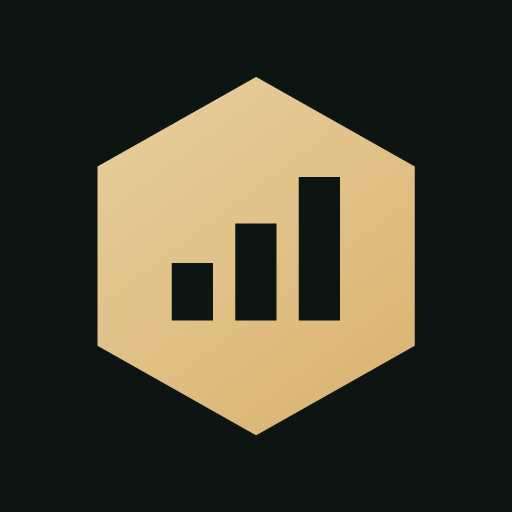
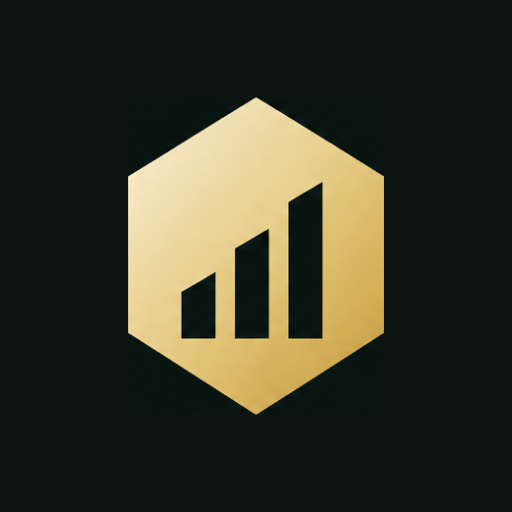
Logótipo real da marca no site e nos ícones da app
O símbolo hexagonal com as barras ascendentes passa a ser a imagem real,
recortada com fundo transparente: as barras são vazadas, por isso assentam
no fundo escuro da página e lêem-se como barras escuras.

O nome fica em texto e não em imagem — mantém-se nítido em qualquer ecrã,
continua a ser lido por leitores de ecrã, e evita o "FINANCEIRA" ilegível
que o logótipo completo dava à altura do cabeçalho.

Os ícones da app (192, 512 e Apple) foram gerados a partir do mesmo
símbolo, centrado a 62% para sobreviver ao recorte redondo do Android.

Corrige também os valores da pré-visualização, que partiam em duas linhas
nas caixas estreitas do telemóvel.

Claude-Session: https://claude.ai/code/session_01TeHc32tkHpdjBymCiSiWmw

Changed region(s): [[0.1875, 0.1562, 0.8125, 0.8438]]

diff --git a/estilo.css b/estilo.css
@@ -61,15 +61,18 @@ header{
   border-bottom:1px solid rgba(217,178,110,.14);
 }
 .nav{display:flex;align-items:center;justify-content:space-between;height:74px;gap:18px}
-.logo{display:flex;align-items:center;gap:12px;text-decoration:none;flex:none}
-.logo-mark{
-  width:40px;height:44px;display:grid;place-items:center;
-  background:linear-gradient(160deg,var(--gold-soft),var(--gold));
-  clip-path:polygon(50% 0,100% 25%,100% 75%,50% 100%,0 75%,0 25%);
-  color:var(--ink);font-family:'Playfair Display',serif;font-weight:800;font-size:1.05rem;
+.logo{display:flex;align-items:center;gap:11px;text-decoration:none;flex:none}
+/* Símbolo: imagem real, de fundo transparente. As barras são vazadas, por
+   isso assentam no fundo escuro da página e lêem-se como barras escuras.
+   O nome fica em texto e não em imagem — assim mantém-se nítido em
+   qualquer ecrã e continua a ser lido por leitores de ecrã. */
+.logo-mark{width:38px;height:auto;display:block;flex:none}
+.logo-name{font-family:'Playfair Display',serif;letter-spacing:.26em;font-weight:700;color:var(--gold-soft);font-size:1rem;line-height:1.1}
+.logo-name small{display:block;font-family:'Manrope',sans-serif;letter-spacing:.34em;font-size:.52rem;color:var(--cream-dim);font-weight:600;margin-top:2px}
+@media(max-width:640px){
+  .logo-mark{width:32px}
+  .logo-name{font-size:.88rem}
 }
-.logo-name{letter-spacing:.28em;font-weight:800;color:var(--gold-soft);font-size:.92rem}
-.logo-name small{display:block;letter-spacing:.44em;font-size:.55rem;color:var(--cream-dim);font-weight:600}
 nav.links{display:flex;gap:20px;flex-wrap:nowrap;align-items:center}
 nav.links a{color:var(--cream-dim);text-decoration:none;font-size:.84rem;font-weight:600;transition:color .2s;white-space:nowrap;position:relative;padding:6px 0}
 nav.links a:hover{color:var(--gold)}
@@ -165,7 +168,7 @@ footer{border-top:1px solid rgba(217,178,110,.14);padding:44px 0 28px}
 .app-modal[hidden]{display:none}
 .app-modal-box{background:var(--ink-2);border:1px solid rgba(217,178,110,.25);border-radius:22px;max-width:430px;width:100%;padding:34px 28px;text-align:center;position:relative;box-shadow:0 30px 80px rgba(0,0,0,.6)}
 .app-modal-close{position:absolute;top:12px;right:16px;background:none;border:none;color:var(--cream-dim);font-size:1.8rem;cursor:pointer;line-height:1}
-.app-modal-logo{width:66px;height:72px;margin:0 auto 16px;display:grid;place-items:center;background:linear-gradient(160deg,var(--gold-soft),var(--gold));clip-path:polygon(50% 0,100% 25%,100% 75%,50% 100%,0 75%,0 25%);color:var(--ink);font-family:'Playfair Display',serif;font-weight:800;font-size:1.5rem}
+.app-modal-logo{width:auto;height:72px;margin:0 auto 16px;display:block}
 .app-modal-box h3{font-size:1.3rem;margin-bottom:8px}
 .app-modal-box>p{color:var(--cream-dim);font-size:.9rem;margin-bottom:22px}
 .app-choice{display:grid;grid-template-columns:1fr 1fr;gap:12px}

diff --git a/index.html b/index.html
@@ -12,7 +12,7 @@
 <link rel="preconnect" href="https://fonts.googleapis.com">
 <link rel="preconnect" href="https://fonts.gstatic.com" crossorigin>
 <link href="https://fonts.googleapis.com/css2?family=Playfair+Display:wght@500;600;700;800&family=Manrope:wght@400;500;600;700;800&display=swap" rel="stylesheet">
-<link rel="stylesheet" href="estilo.css?v=1">
+<link rel="stylesheet" href="estilo.css?v=2">
 <style>
 .hero{
   min-height:100vh;display:flex;align-items:center;
@@ -53,6 +53,9 @@
   .hero{padding:110px 0 70px;min-height:0}
   .hero-grid{grid-template-columns:1fr;gap:34px}
   .preview{order:-1}
+  /* "1 640,00 €" partia em duas linhas nas caixas estreitas */
+  .pv-dois .v{font-size:.94rem;white-space:nowrap}
+  .pv-dois div{padding:11px 12px}
 }
 
 /* blocos de conteúdo */
@@ -83,7 +86,7 @@
 <header>
   <div class="wrap nav">
     <a class="logo" href="index.html">
-      <div class="logo-mark">VF</div>
+      <img class="logo-mark" src="img/logo-marca.png" alt="">
       <div class="logo-name">VIDA<small>FINANCEIRA</small></div>
     </a>
     <nav class="links" id="menu">
@@ -201,7 +204,7 @@
     <div class="footer-grid">
       <div>
         <a class="logo" href="index.html">
-          <div class="logo-mark">VF</div>
+          <img class="logo-mark" src="img/logo-marca.png" alt="">
           <div class="logo-name">VIDA<small>FINANCEIRA</small></div>
         </a>
         <p>Controlo de contas pessoais. Simples, offline e sem ligar o seu banco a lado nenhum.</p>
@@ -230,7 +233,7 @@
 <div class="app-modal" id="app-modal" hidden>
   <div class="app-modal-box">
     <button class="app-modal-close" data-fechar aria-label="Fechar">×</button>
-    <div class="app-modal-logo">VF</div>
+    <img class="app-modal-logo" src="img/logo-marca.png" alt="">
     <h3>Instalar no telemóvel</h3>
     <p>Fica com um ícone no ecrã inicial, como qualquer app. Não passa por nenhuma loja.</p>
     <div class="app-choice">
@@ -259,7 +262,7 @@
 <script src="https://www.gstatic.com/firebasejs/9.23.0/firebase-app-compat.js"></script>
 <script src="https://www.gstatic.com/firebasejs/9.23.0/firebase-auth-compat.js"></script>
 <script src="https://www.gstatic.com/firebasejs/9.23.0/firebase-firestore-compat.js"></script>
-<script src="firebase-config.js?v=1"></script>
-<script src="site.js?v=1"></script>
+<script src="firebase-config.js?v=2"></script>
+<script src="site.js?v=2"></script>
 </body>
 </html>

diff --git a/conta.html b/conta.html
@@ -12,7 +12,7 @@
 <link rel="preconnect" href="https://fonts.googleapis.com">
 <link rel="preconnect" href="https://fonts.gstatic.com" crossorigin>
 <link href="https://fonts.googleapis.com/css2?family=Playfair+Display:wght@500;600;700;800&family=Manrope:wght@400;500;600;700;800&display=swap" rel="stylesheet">
-<link rel="stylesheet" href="estilo.css?v=1">
+<link rel="stylesheet" href="estilo.css?v=2">
 <style>
 .conta-wrap{max-width:440px;margin:0 auto;padding:120px 24px 100px}
 .caixa{background:var(--ink-2);border:1px solid rgba(217,178,110,.2);border-radius:22px;padding:32px 28px;box-shadow:0 30px 70px rgba(0,0,0,.5)}
@@ -33,7 +33,7 @@
 <header>
   <div class="wrap nav">
     <a class="logo" href="index.html">
-      <div class="logo-mark">VF</div>
+      <img class="logo-mark" src="img/logo-marca.png" alt="">
       <div class="logo-name">VIDA<small>FINANCEIRA</small></div>
     </a>
     <nav class="links" id="menu">
@@ -120,8 +120,8 @@
 <script src="https://www.gstatic.com/firebasejs/9.23.0/firebase-app-compat.js"></script>
 <script src="https://www.gstatic.com/firebasejs/9.23.0/firebase-auth-compat.js"></script>
 <script src="https://www.gstatic.com/firebasejs/9.23.0/firebase-firestore-compat.js"></script>
-<script src="firebase-config.js?v=1"></script>
-<script src="site.js?v=1"></script>
+<script src="firebase-config.js?v=2"></script>
+<script src="site.js?v=2"></script>
 <script>
 (function () {
   const aviso = document.getElementById('aviso');

diff --git a/app.html b/app.html
@@ -12,15 +12,15 @@
 <link rel="preconnect" href="https://fonts.googleapis.com">
 <link rel="preconnect" href="https://fonts.gstatic.com" crossorigin>
 <link href="https://fonts.googleapis.com/css2?family=Playfair+Display:wght@500;600;700;800&family=Manrope:wght@400;500;600;700;800&display=swap" rel="stylesheet">
-<link rel="stylesheet" href="estilo.css?v=1">
-<link rel="stylesheet" href="app-financas.css?v=1">
+<link rel="stylesheet" href="estilo.css?v=2">
+<link rel="stylesheet" href="app-financas.css?v=2">
 </head>
 <body>
 
 <header>
   <div class="wrap nav">
     <a class="logo" href="index.html">
-      <div class="logo-mark">VF</div>
+      <img class="logo-mark" src="img/logo-marca.png" alt="">
       <div class="logo-name">VIDA<small>FINANCEIRA</small></div>
     </a>
     <nav class="links" id="menu">
@@ -164,8 +164,8 @@
 <script src="https://www.gstatic.com/firebasejs/9.23.0/firebase-app-compat.js"></script>
 <script src="https://www.gstatic.com/firebasejs/9.23.0/firebase-auth-compat.js"></script>
 <script src="https://www.gstatic.com/firebasejs/9.23.0/firebase-firestore-compat.js"></script>
-<script src="firebase-config.js?v=1"></script>
-<script src="site.js?v=1"></script>
-<script src="app-financas.js?v=1"></script>
+<script src="firebase-config.js?v=2"></script>
+<script src="site.js?v=2"></script>
+<script src="app-financas.js?v=2"></script>
 </body>
 </html>

diff --git a/sobre.html b/sobre.html
@@ -12,7 +12,7 @@
 <link rel="preconnect" href="https://fonts.googleapis.com">
 <link rel="preconnect" href="https://fonts.gstatic.com" crossorigin>
 <link href="https://fonts.googleapis.com/css2?family=Playfair+Display:wght@500;600;700;800&family=Manrope:wght@400;500;600;700;800&display=swap" rel="stylesheet">
-<link rel="stylesheet" href="estilo.css?v=1">
+<link rel="stylesheet" href="estilo.css?v=2">
 <style>
 .txt{max-width:720px}
 .txt h2{margin-top:46px}
@@ -30,7 +30,7 @@
 <header>
   <div class="wrap nav">
     <a class="logo" href="index.html">
-      <div class="logo-mark">VF</div>
+      <img class="logo-mark" src="img/logo-marca.png" alt="">
       <div class="logo-name">VIDA<small>FINANCEIRA</small></div>
     </a>
     <nav class="links" id="menu">
@@ -135,7 +135,7 @@
 <script src="https://www.gstatic.com/firebasejs/9.23.0/firebase-app-compat.js"></script>
 <script src="https://www.gstatic.com/firebasejs/9.23.0/firebase-auth-compat.js"></script>
 <script src="https://www.gstatic.com/firebasejs/9.23.0/firebase-firestore-compat.js"></script>
-<script src="firebase-config.js?v=1"></script>
-<script src="site.js?v=1"></script>
+<script src="firebase-config.js?v=2"></script>
+<script src="site.js?v=2"></script>
 </body>
 </html>
